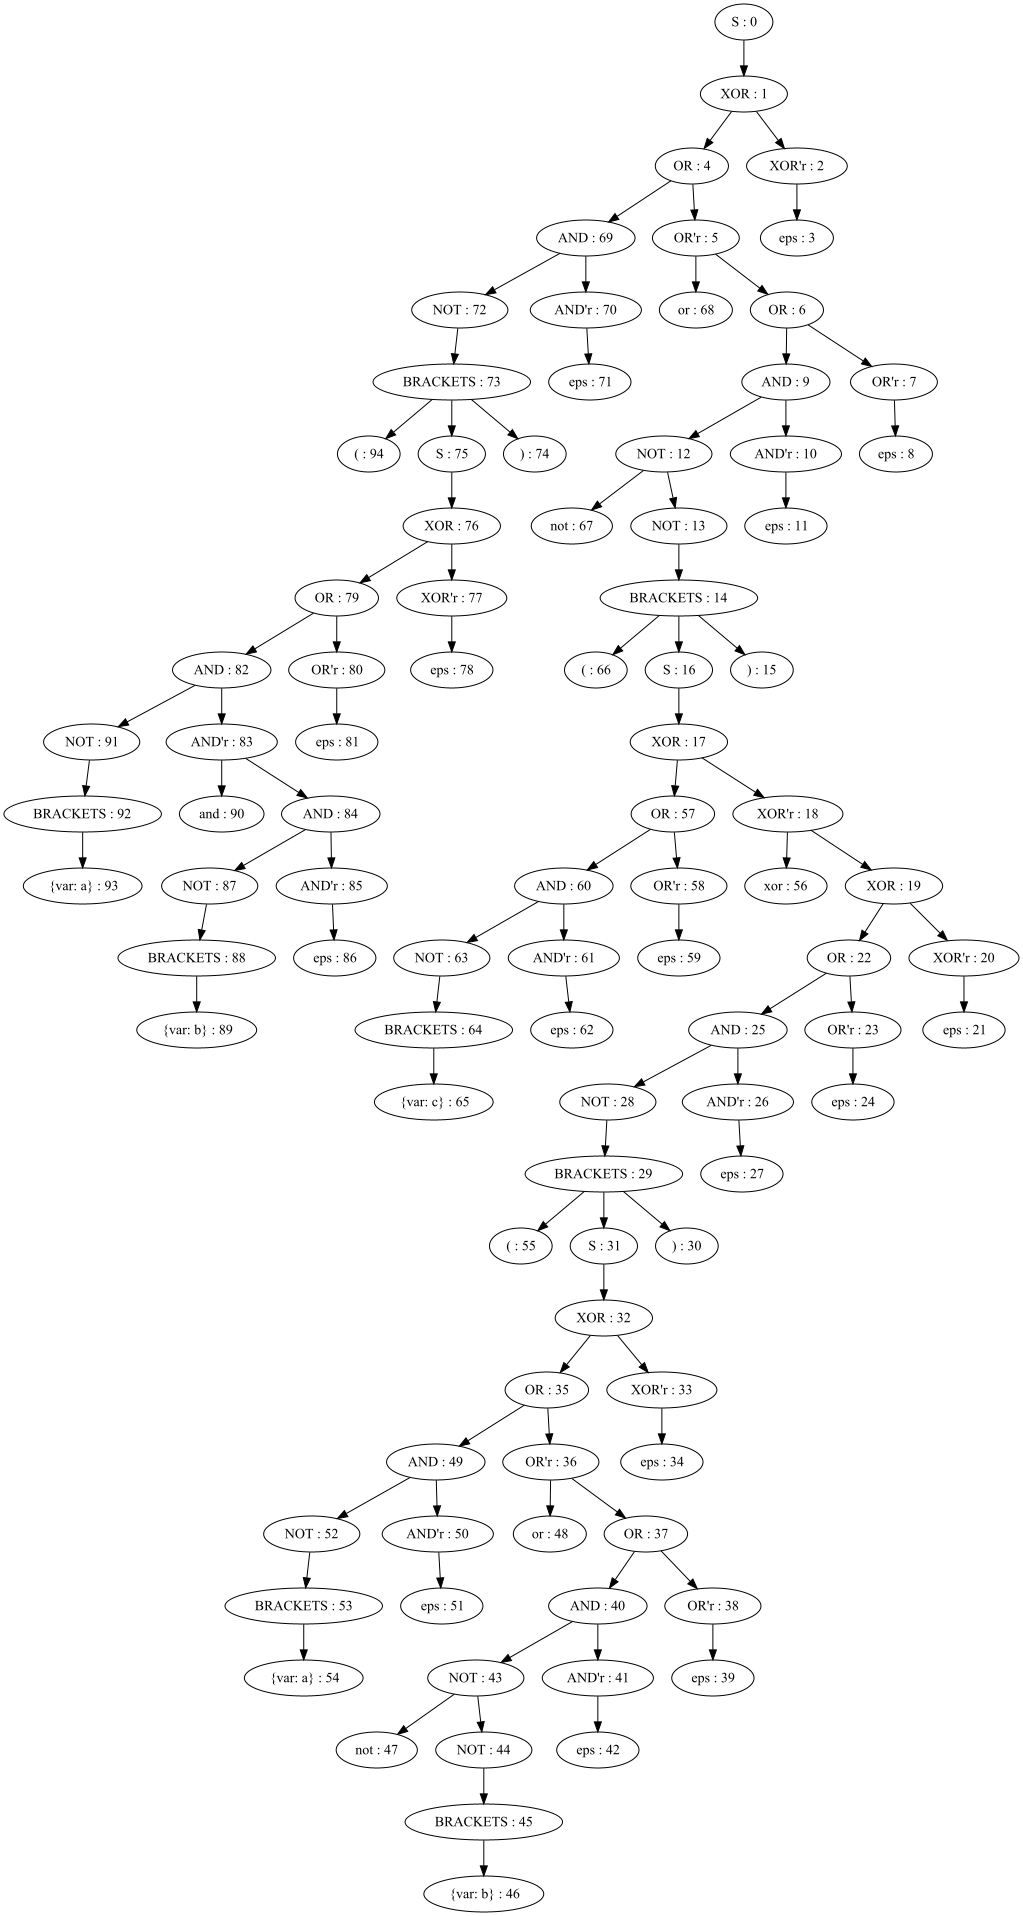
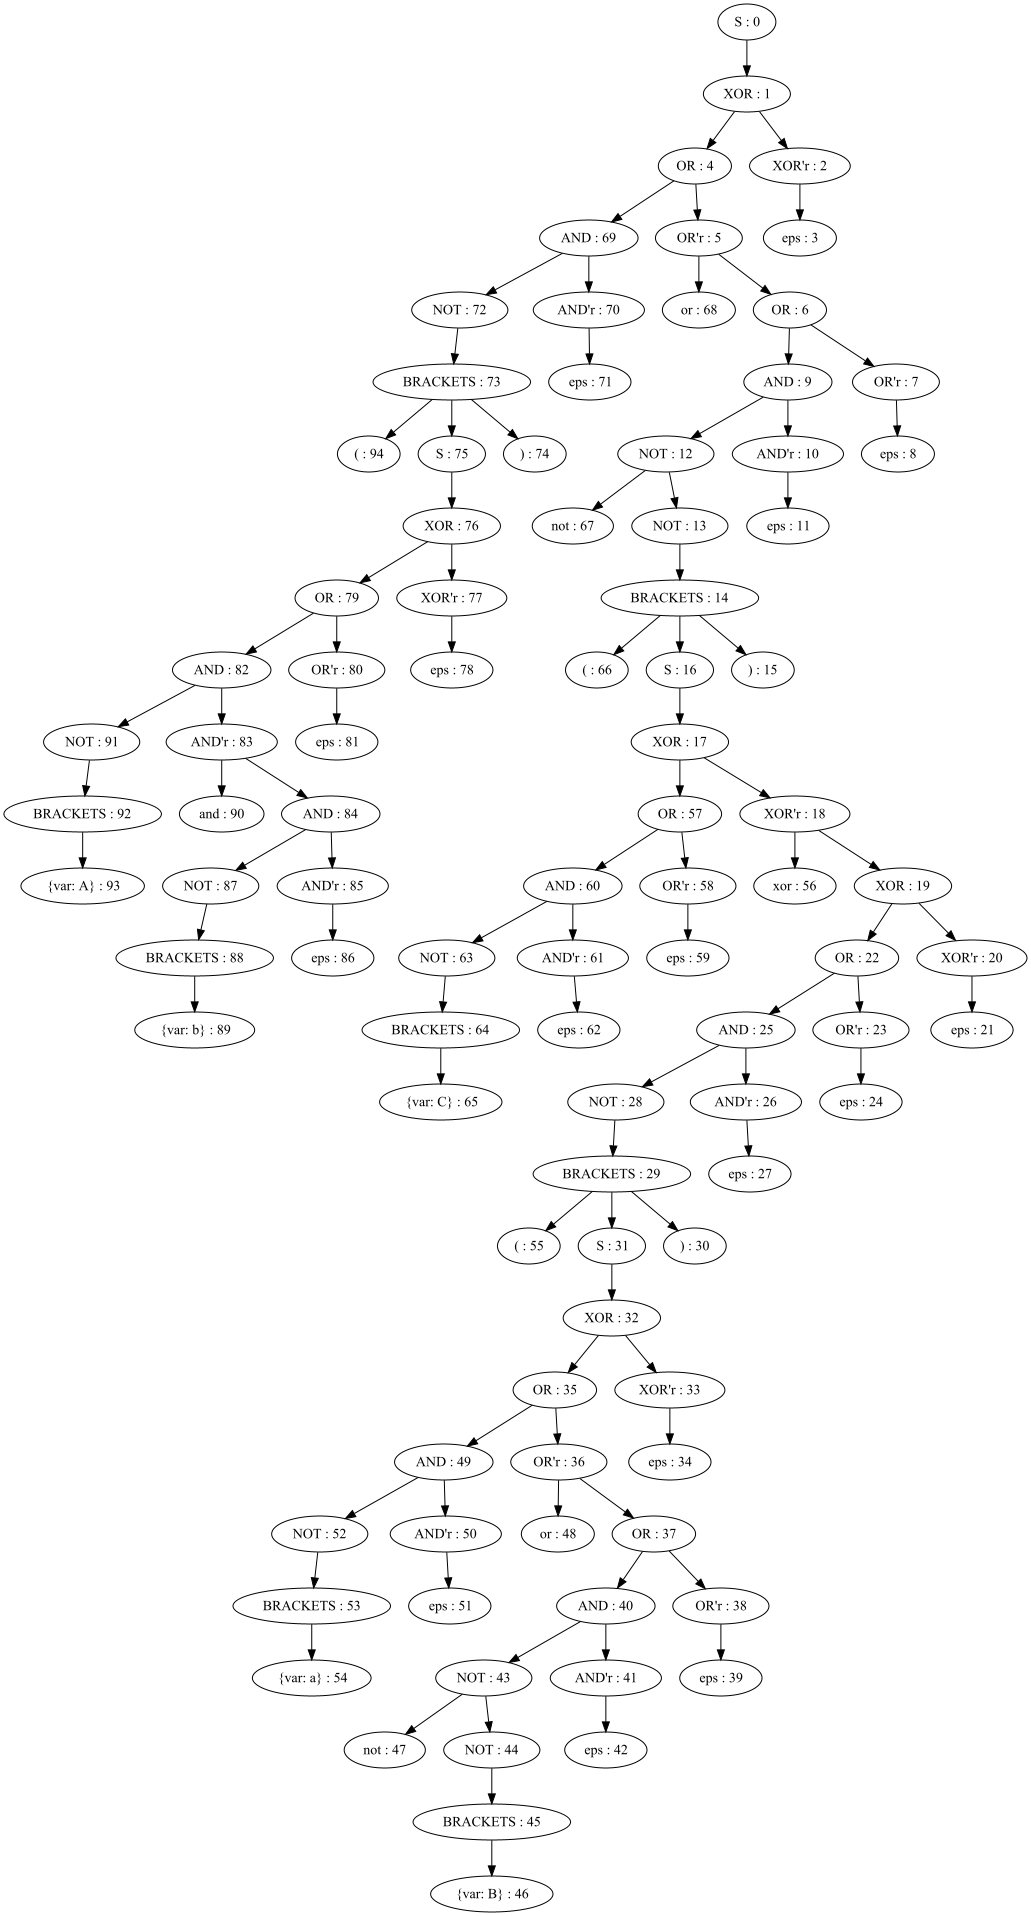
Modified

diff --git a/Lab1/src/test/java/RandomTests.java b/Lab1/src/test/java/RandomTests.java
@@ -13,12 +13,12 @@ public class RandomTests extends BaseTests {
     private int minDepth;
     private final Random random = new Random();
 
-    private enum UnaryOperators {
+    private enum UnaryOperations {
         NOT("not");
 
         private String name;
 
-        UnaryOperators(String name) {
+        UnaryOperations(String name) {
             this.name = name;
         }
 
@@ -27,14 +27,14 @@ public class RandomTests extends BaseTests {
         }
     }
 
-    private enum BinaryOperators {
+    private enum BinaryOperations {
         XOR("xor"),
         OR("or"),
         AND("and");
 
         private String name;
 
-        BinaryOperators(String name) {
+        BinaryOperations(String name) {
             this.name = name;
         }
 
@@ -62,11 +62,11 @@ public class RandomTests extends BaseTests {
 
         switch (Math.abs(random.nextInt()) % availableOptionsCount) {
             case 0: {
-                int operatorNumber = generateNumberUpTo(UnaryOperators.values().length);
+                int operatorNumber = generateNumberUpTo(UnaryOperations.values().length);
 
                 StringBuilder stringBuilder = new StringBuilder();
 
-                stringBuilder.append(UnaryOperators.values()[operatorNumber].getName());
+                stringBuilder.append(UnaryOperations.values()[operatorNumber].getName());
                 stringBuilder.append(" ( ");
                 stringBuilder.append(generateExpression(depth + 1));
                 stringBuilder.append(") ");
@@ -75,14 +75,14 @@ public class RandomTests extends BaseTests {
             }
 
             case 1: {
-                int operatorNumber = generateNumberUpTo(BinaryOperators.values().length);
+                int operatorNumber = generateNumberUpTo(BinaryOperations.values().length);
 
                 StringBuilder stringBuilder = new StringBuilder();
 
                 stringBuilder.append("( ");
                 stringBuilder.append(generateExpression(depth + 1));
                 stringBuilder.append(" ) ");
-                stringBuilder.append(BinaryOperators.values()[operatorNumber].getName());
+                stringBuilder.append(BinaryOperations.values()[operatorNumber].getName());
                 stringBuilder.append(" ( ");
                 stringBuilder.append(generateExpression(depth + 1));
                 stringBuilder.append(" )");

diff --git a/Lab1/src/test/java/Main.java b/Lab1/src/test/java/Main.java
@@ -8,7 +8,7 @@ public class Main {
         ExpressionParser expressionParser = new ExpressionParser();
         ExpressionParser.Node node = null;
         try {
-            node = expressionParser.parse("(a and b) or not (c xor (a or not b))");
+            node = expressionParser.parse("(A and b) or not (C xor (a or not B))");
         } catch (TokenizerParseException | ExpressionParserException e) {
             e.printStackTrace();
         }

diff --git a/Lab1/src/main/java/grammar/objects/terminals/Terminal.java b/Lab1/src/main/java/grammar/objects/terminals/Terminal.java
@@ -12,8 +12,7 @@ public class Terminal<T> implements GrammarObject {
 
     public enum TerminalOption {
         WHITESPACELESS,
-        VARIABLE(true, "[a-z]"),
-        INTEGER(true, "[0-9]+");
+        VARIABLE(true, "[a-zA-Z]");
 
         private boolean containsExtraValue = false;
         private String regex = "";
